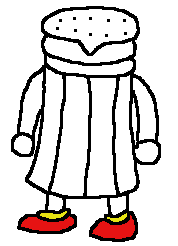
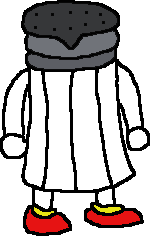
Made a level, added in the images for the Regular enemy and Background.

diff --git a/CulminatingProject/src/QWithoutA/SaltGamePanel.java b/CulminatingProject/src/QWithoutA/SaltGamePanel.java
@@ -11,8 +11,10 @@ import java.awt.event.MouseEvent;
 import java.awt.event.MouseListener;
 import java.awt.event.MouseMotionListener;
 import java.awt.image.BufferedImage;
+import java.io.IOException;
 import java.util.ArrayList;
 
+import javax.imageio.ImageIO;
 import javax.swing.JFrame;
 import javax.swing.JOptionPane;
 import javax.swing.JPanel;
@@ -147,6 +149,7 @@ public class SaltGamePanel  extends JPanel implements Runnable, MouseListener, M
 	public double initialVelocity = Math.sqrt(-2*playerProjectileAcceleration *playerProjectileMaxHeight);
 	
 	private MainMenu mainMenu;
+	private BufferedImage image;
 
 	public enum STATE{
 		MENU,
@@ -178,6 +181,11 @@ public class SaltGamePanel  extends JPanel implements Runnable, MouseListener, M
 	public SaltGamePanel(){
 		this.setPreferredSize(new Dimension(width, height));
 		this.setBackground(Color.CYAN);
+		try{
+			image = ImageIO.read(Player.class.getResourceAsStream("/Images/Background.png"));
+		}catch(IOException e){
+			e.printStackTrace();
+		}
 		
 		setFocusable(true);
 		addKeyListener(this);
@@ -189,8 +197,8 @@ public class SaltGamePanel  extends JPanel implements Runnable, MouseListener, M
 		player.add(new Player(30, 250, 0, width, 0, height));
 		//this.levelGlen();
 		//this.levelTimothy();
-		//this.levelRosauro();
-		this.levelDavid();
+		this.levelRosauro();
+		//this.levelDavid();
 	
 		
 		//adds main menu
@@ -313,6 +321,64 @@ public class SaltGamePanel  extends JPanel implements Runnable, MouseListener, M
 	
 	// the first level that Rosauro created 
 	public void levelRosauro(){
+		ground.add(new Ground(0, 525, 0, width, 0, height));
+		ground.get(0).setWidth(ground.get(0).getWidth()/7);
+		
+		ground.add(new Ground(350, 525, 0, width, 0, height));
+		ground.get(1).setWidth(ground.get(1).getWidth()/8);
+		
+		ground.add(new Ground(650, 525, 0, width, 0, height));
+		ground.get(2).setWidth(ground.get(2).getWidth()/8);
+		
+		ground.add(new Ground(950, 525, 0, width, 0, height));
+		ground.get(3).setWidth(ground.get(3).getWidth()/8);
+		
+		ground.add(new Ground(250, 450, 0, width, 0, height));
+		ground.get(4).setWidth(ground.get(4).getWidth()/6);
+		
+		ground.add(new Ground(300, 250, 0, width, 0, height));
+		ground.get(5).setWidth(ground.get(5).getWidth()/6);
+		
+		ground.add(new Ground(600, 250, 0, width, 0, height));
+		ground.get(6).setWidth(ground.get(6).getWidth()/6);
+		
+		ground.add(new Ground(900, 350, 0, width, 0, height));
+		ground.get(7).setWidth(ground.get(7).getWidth()/6);
+		
+		ground.add(new Ground(900, 150, 0, width, 0, height));
+		ground.get(8).setWidth(ground.get(8).getWidth()/6);
+		
+		ground.add(new Ground(0, 150, 0, width, 0, height));
+		ground.get(9).setWidth(ground.get(9).getWidth()/6);
+		
+		ground.add(new Ground(600, 400, 0, width, 0, height));
+		ground.get(10).setWidth(ground.get(10).getWidth()/8);
+		
+		fBlock.add(new FallingBlock(100, 350, 0, width, 0, height));
+		
+		slugs.add(new Slug(300, 425, 300, 425, 0 , height));
+		slugs.get(0).setXSpeed(2*slugSpeed/6);
+		
+		slugs.add(new Slug(620, 230, 600, 750, 0 , height));
+		slugs.get(1).setXSpeed(2*slugSpeed/3);
+		
+		slugs.add(new Slug(600, 375, 600, 720, 0 , height));
+		slugs.get(2).setXSpeed(2*slugSpeed/3);
+		
+		slugs.add(new Slug(320, 500, 320, 450, 0 , height));
+		slugs.get(3).setXSpeed(2*slugSpeed/3);
+		
+		walkers.add(new RoamingEnemy(0, 120, 0, 150, 0, height));
+		walkers.get(0).setXSpeed(walkerSpeed*2);
+		
+		walkers.add(new RoamingEnemy(650, 495, 650, 760, 0, height));
+		walkers.get(1).setXSpeed(walkerSpeed*3);
+		
+		walkers.add(new RoamingEnemy(950, 495, 950, 1050, 0, height));
+		walkers.get(2).setXSpeed(walkerSpeed);
+		
+		walkers.add(new RoamingEnemy(950, 120, 950, 1050, 0, height));
+		walkers.get(3).setXSpeed(walkerSpeed);
 	}
 	// the first level that David created 
 	public void levelDavid(){
@@ -647,6 +713,7 @@ public class SaltGamePanel  extends JPanel implements Runnable, MouseListener, M
 	
 	public void paintComponent(Graphics g) {
 		super.paintComponent(g);
+		g.drawImage(image, 0, 0, null);
 		if (State == STATE.GAME) {
 			//g.drawString ("Number of salt balls: " + saltBalls.size(), 5, 20);
 			//g.drawString ("Number of slime balls: " + slimeBalls.size(), 5, 40);

diff --git a/CulminatingProject/src/QWithoutA/Blocks.java b/CulminatingProject/src/QWithoutA/Blocks.java
@@ -80,20 +80,20 @@ public class Blocks extends MovingObject{
 			}
 		}
 		// top side of hitbox
-		else if(entity.getY() + entity.getHeight() < this.getY() - 5){				
-			if(entity.getY() > this.getY() - entity.getHeight()+10){
-				return false;
-			}
-			else if(entity.getX() + entity.getWidth() < this.getX()){
-				return false;
-			}
-			else if(entity.getY() + entity.getHeight() > this.getY() + this.getHeight()/2){
-				return false;
-			}
-			else if(entity.getY() + entity.getHeight() < this.getY() - 5){
-				return false;
-			}
-		}
+		else if(entity.getY() + entity.getHeight() < this.getY() + 5){  
+			if(entity.getX() + entity.getWidth() < this.getX()){
+			    return false;
+			   }
+			   else if(entity.getX() > this.getX() + this.getWidth()){
+			    return false;
+			   }
+			   else if(entity.getY() > this.getY() + this.getHeight()){
+			    return false;
+			   }
+			   else if(entity.getY() + entity.getHeight() < this.getY() + 5){
+			    return false;
+			   }
+			  }
 		// bottom side of hitbox
 		else if(entity.getY() + entity.getHeight() > this.getY() + this.getHeight()/2){
 			if(entity.getX() + entity.getHeight() < this.getX()){

diff --git a/CulminatingProject/src/QWithoutA/FallingBlock.java b/CulminatingProject/src/QWithoutA/FallingBlock.java
@@ -88,20 +88,20 @@ public class FallingBlock extends Blocks{
 			}
 		}
 		// top side of hitbox
-		else if(entity.getY() + entity.getHeight() < this.getY() - 5){				
-			if(entity.getY() > this.getY() - entity.getHeight()+10){
-				return false;
-			}
-			else if(entity.getX() + entity.getWidth() < this.getX()){
-				return false;
-			}
-			else if(entity.getY() + entity.getHeight() > this.getY() + this.getHeight()/2){
-				return false;
-			}
-			else if(entity.getY() + entity.getHeight() < this.getY() - 5){
-				return false;
-			}
-		}
+		else if(entity.getY() + entity.getHeight() < this.getY() + 5){  
+			if(entity.getX() + entity.getWidth() < this.getX()){
+			    return false;
+			   }
+			   else if(entity.getX() > this.getX() + this.getWidth()){
+			    return false;
+			   }
+			   else if(entity.getY() > this.getY() + this.getHeight()){
+			    return false;
+			   }
+			   else if(entity.getY() + entity.getHeight() < this.getY() + 5){
+			    return false;
+			   }
+			  }
 		// bottom side of hitbox
 		else if(entity.getY() + entity.getHeight() > this.getY() + this.getHeight()/2){
 			if(entity.getX() + entity.getHeight() < this.getX()){

diff --git a/CulminatingProject/src/QWithoutA/ItemBlock.java b/CulminatingProject/src/QWithoutA/ItemBlock.java
@@ -91,20 +91,20 @@ public class ItemBlock extends Blocks{
 			}
 		}
 		// top side of hitbox
-		else if(entity.getY() + entity.getHeight() < this.getY() - 5){				
-			if(entity.getY() > this.getY() - entity.getHeight()+10){
-				return false;
-			}
-			else if(entity.getX() + entity.getWidth() < this.getX()){
-				return false;
-			}
-			else if(entity.getY() + entity.getHeight() > this.getY() + this.getHeight()/2){
-				return false;
-			}
-			else if(entity.getY() + entity.getHeight() < this.getY() - 5){
-				return false;
-			}
-		}
+		else if(entity.getY() + entity.getHeight() < this.getY() + 5){  
+			 if(entity.getX() + entity.getWidth() < this.getX()){
+			    return false;
+			   }
+			   else if(entity.getX() > this.getX() + this.getWidth()){
+			    return false;
+			   }
+			   else if(entity.getY() > this.getY() + this.getHeight()){
+			    return false;
+			   }
+			   else if(entity.getY() + entity.getHeight() < this.getY() + 5){
+			    return false;
+			   }
+			  }
 		// bottom side of hitbox
 		else if(entity.getY() + entity.getHeight() > this.getY() + this.getHeight()/2){
 			if(entity.getX() + entity.getHeight() < this.getX()){

diff --git a/CulminatingProject/src/QWithoutA/Ground.java b/CulminatingProject/src/QWithoutA/Ground.java
@@ -87,20 +87,20 @@ public class Ground extends Blocks{
 			}
 		}
 		// top side of hitbox
-		else if(entity.getY() + entity.getHeight() < this.getY() - 5){				
-			if(entity.getY() > this.getY() - entity.getHeight()+10){
-				return false;
-			}
-			else if(entity.getX() + entity.getWidth() < this.getX()){
-				return false;
-			}
-			else if(entity.getY() + entity.getHeight() > this.getY() + this.getHeight()/2){
-				return false;
-			}
-			else if(entity.getY() + entity.getHeight() < this.getY() - 5){
-				return false;
-			}
-		}
+		else if(entity.getY() + entity.getHeight() < this.getY() + 5){  
+			 if(entity.getX() + entity.getWidth() < this.getX()){
+			    return false;
+			   }
+			   else if(entity.getX() > this.getX() + this.getWidth()){
+			    return false;
+			   }
+			   else if(entity.getY() > this.getY() + this.getHeight()){
+			    return false;
+			   }
+			   else if(entity.getY() + entity.getHeight() < this.getY() + 5){
+			    return false;
+			   }
+			  }
 		// bottom side of hitbox
 		else if(entity.getY() + entity.getHeight() > this.getY() + this.getHeight()/2){
 			if(entity.getX() + entity.getHeight() < this.getX()){

diff --git a/CulminatingProject/src/Entities/RoamingEnemy.java b/CulminatingProject/src/Entities/RoamingEnemy.java
@@ -34,7 +34,7 @@ public class RoamingEnemy extends MovingObject {
 		setWidth(35);
 		movingToBoundry(false);
 		try{
-			image = ImageIO.read(Player.class.getResourceAsStream("/Images/Item Block(Used).png"));
+			image = ImageIO.read(Player.class.getResourceAsStream("/Images/Regular Enemy.png"));
 		}catch(IOException e){
 			e.printStackTrace();
 		}
